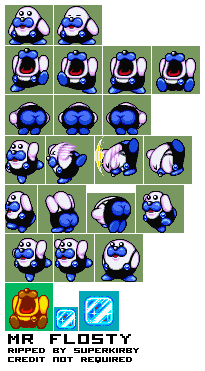
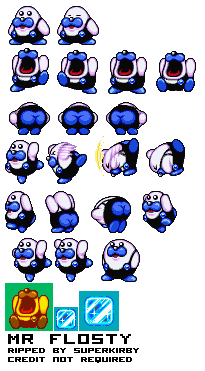
배연두 : Mr.Frosty Shoot 애니메이션 완료

Changed region(s): [[0.0, 0.0, 0.9951, 0.7709], [0.5268, 0.7412, 0.6146, 0.7709]]

diff --git a/Kirby/KirbyCore.cpp b/Kirby/KirbyCore.cpp
@@ -54,6 +54,9 @@ void KirbyCore::BeginPlay() {
 	UEngineResourcesManager::GetInst().CuttingImage("MrFrostyIdle_Left.png", 2, 1);
 	UEngineResourcesManager::GetInst().CuttingImage("MrFrostyMove_Right.png", 3, 1);
 	UEngineResourcesManager::GetInst().CuttingImage("MrFrostyMove_Left.png", 3, 1);
+	UEngineResourcesManager::GetInst().CuttingImage("MrFrostyShootReady.png", 3, 1);
+	UEngineResourcesManager::GetInst().CuttingImage("MrFrostyShoot_Right.png", 6, 1);
+	UEngineResourcesManager::GetInst().CuttingImage("MrFrostyShoot_Left.png", 6, 1);
 
 	CreateLevel<UTitleLevel>("TitleLevel");
 	CreateLevel<UPlayLevel>("PlayLevel");

diff --git a/Kirby/ContentsHelper.h b/Kirby/ContentsHelper.h
@@ -64,6 +64,8 @@ enum class EEnemyState
 	Inhaled,
 	Die,
 	HitWall,
+	ShootReady,
+	Shoot,
 };
 
 enum class EBulletState
